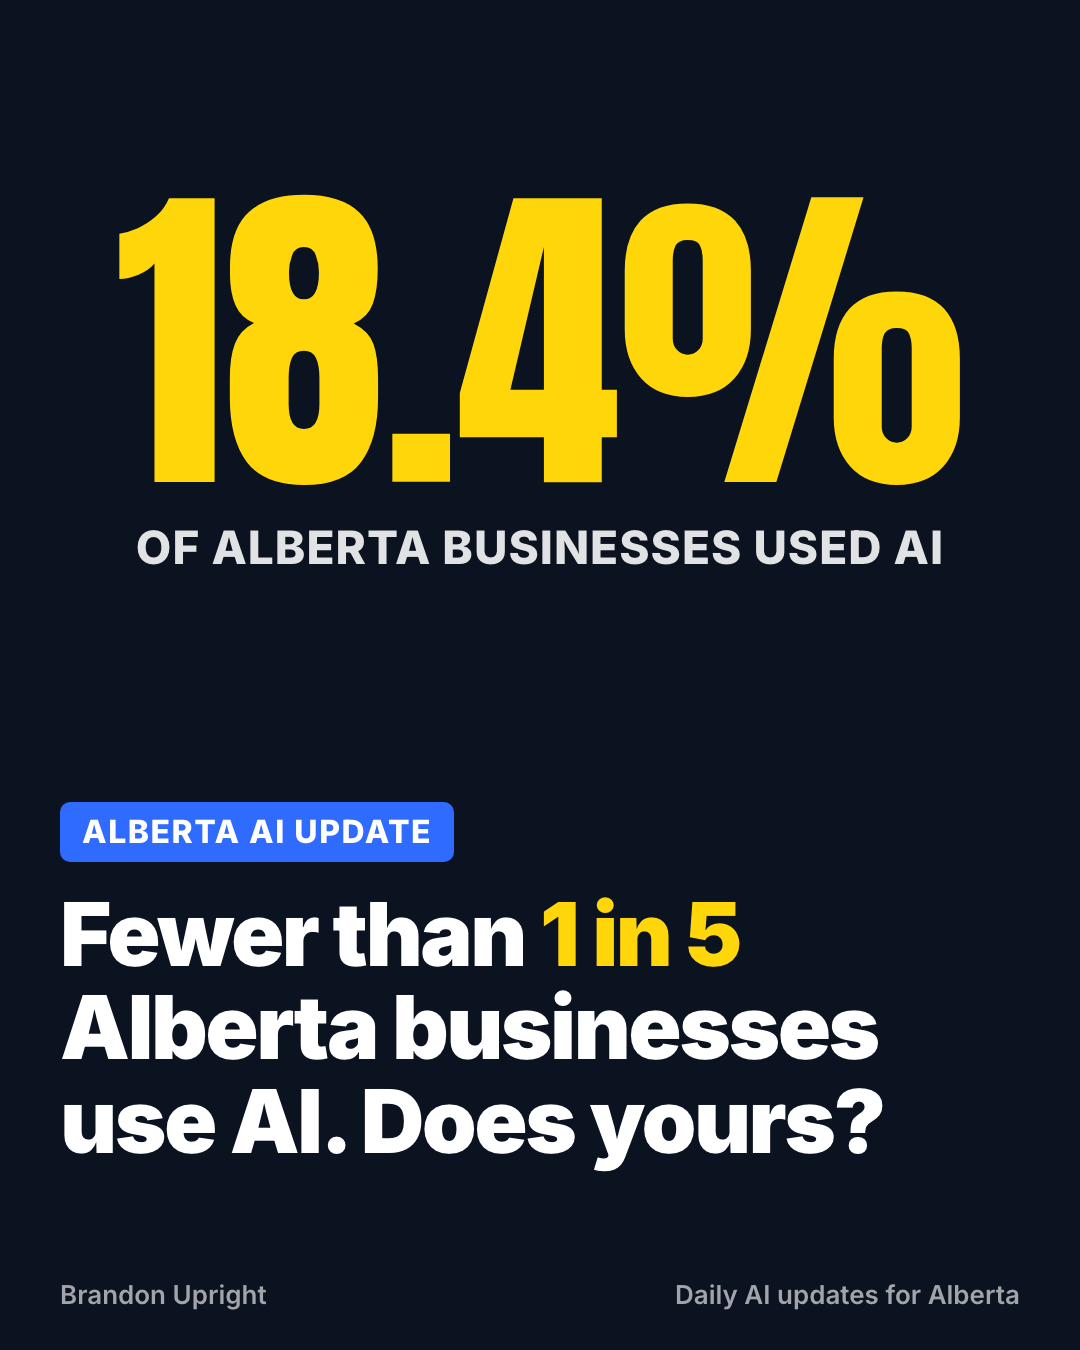
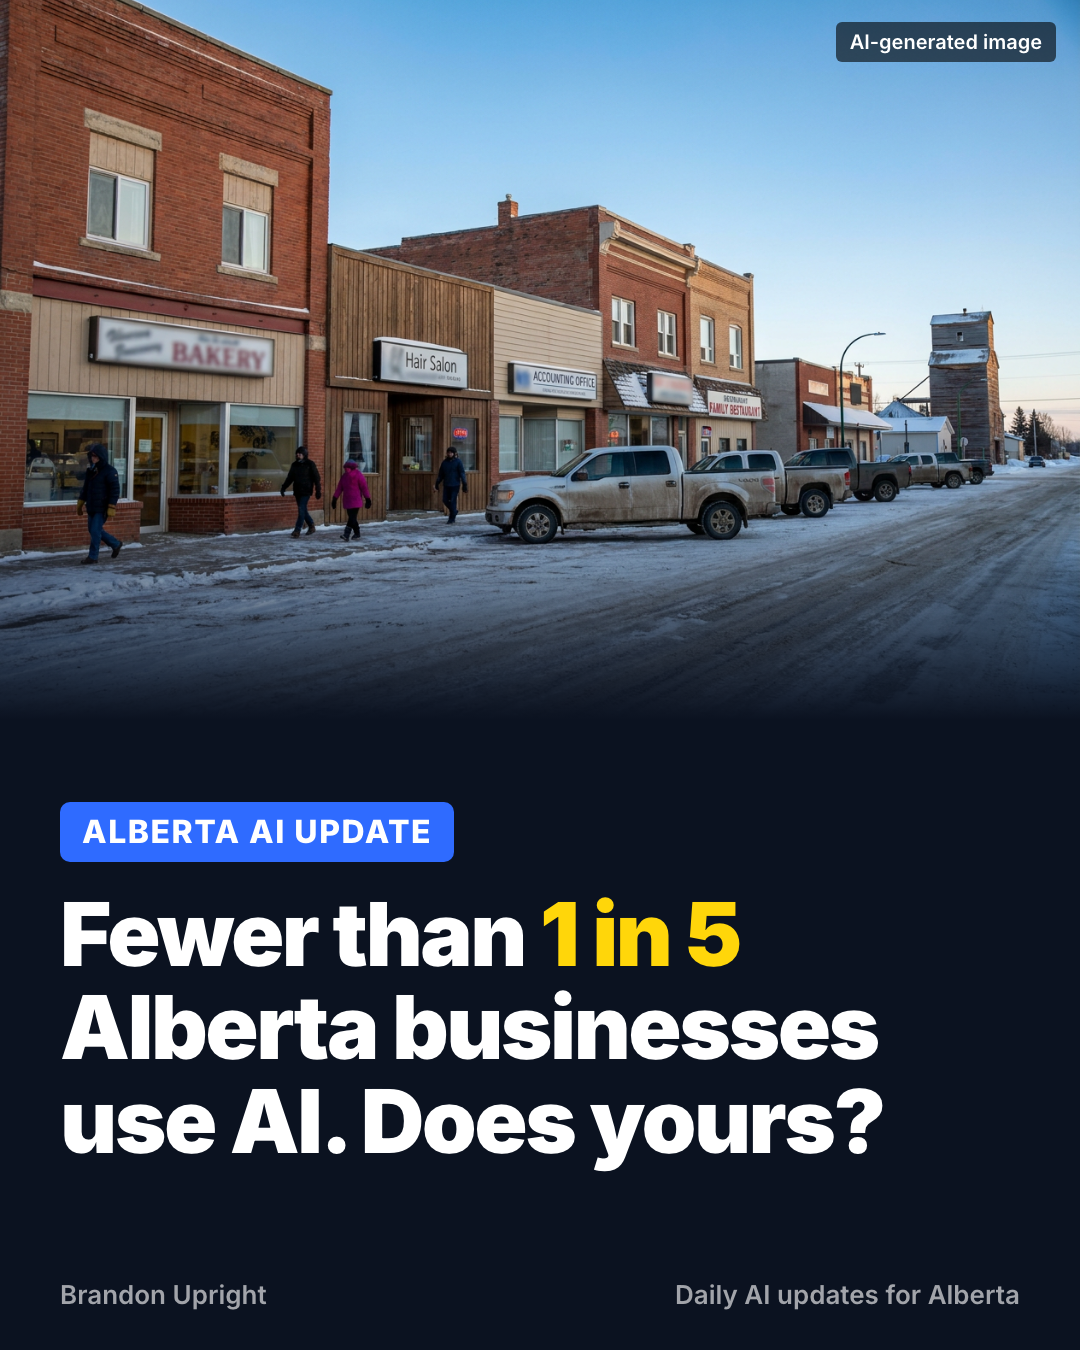
Personal posts: Fal.ai photo generation, generated photos for three posts

diff --git a/content/personal-posts/routine-prompt.md b/content/personal-posts/routine-prompt.md
@@ -1,4 +1,4 @@
-You run Brandon Upright's personal content funnel. His goal: when people in Alberta think "AI", they think of him. He posts 10 times a day on his personal Facebook, LinkedIn and X. Each post is an image with a headline, a caption, and a link in the first comment to an article on unhired.io. Every morning you research, write the 10 posts and their articles, publish the articles to the website, and put the posts on the admin portal's Posts tab (portal.unhired.io/posts), where he copies, pastes and ticks each one off. He does not write or edit. You never post to a social network yourself. Do not use paid APIs or image generators (no Anthropic API calls, no Higgsfield, no Apify) unless the README's image section says a generator is set up.
+You run Brandon Upright's personal content funnel. His goal: when people in Alberta think "AI", they think of him. He posts 10 times a day on his personal Facebook, LinkedIn and X. Each post is an image with a headline, a caption, and a link in the first comment to an article on unhired.io. Every morning you research, write the 10 posts and their articles, publish the articles to the website, and put the posts on the admin portal's Posts tab (portal.unhired.io/posts), where he copies, pastes and ticks each one off. He does not write or edit. You never post to a social network yourself. Do not use paid APIs (no Anthropic API calls, no Higgsfield, no Apify). The one exception is Fal.ai image generation through `scripts/fal-image.mjs`, at most 5 images a day, exactly as the README's image section describes.
 
 The audience is the everyday person in Alberta and business owners, not people who follow tech. The content never sells Brandon, Unhired or the service: it earns attention, starts conversations and gives useful information. The only offer is the author box the website adds to the end of each article by itself.
 
@@ -26,7 +26,7 @@ Every number, name, date and quote must come from a page you opened today: a gov
 Check the writing: put all captions, X texts and article text into one scratch `.md` file that starts with a `---` / `title: x` / `---` frontmatter block, and run `node /Users/user/Documents/Unhired/scripts/check-writing.mjs --places-ok <scratch.md>` until there are no ERROR lines (an ERROR on the "Follow Brandon Upright" line or an `unhired.io` link is fine).
 
 ## 4. Images
-For each news post run `node /Users/user/Documents/Unhired/scripts/og-image.mjs <its source urls>` and choose a photo by the README's rules (`photoUrl` + `credit`). Then `node /Users/user/Documents/Unhired/scripts/post-image.mjs /Users/user/Documents/Unhired/content/personal-posts/<today>.json`. Open every PNG in `/Users/user/Documents/Unhired/brand/personal-posts/<today>/` and look at it: the photo shows the story, no text cut off, the number readable on a phone, the label matches the pillar, no two posts share a photo. Fix the spec and re-render that slug if anything is off.
+For each news post run `node /Users/user/Documents/Unhired/scripts/og-image.mjs <its source urls>` and choose a photo by the README's rules (`photoUrl` + `credit`). For a news post with no usable source photo, generate one with `scripts/fal-image.mjs` (README image section; max 5 a day). Then `node /Users/user/Documents/Unhired/scripts/post-image.mjs /Users/user/Documents/Unhired/content/personal-posts/<today>.json`. Open every PNG in `/Users/user/Documents/Unhired/brand/personal-posts/<today>/` and look at it: the photo shows the story, no text cut off, the number readable on a phone, the label matches the pillar, no two posts share a photo. Fix the spec and re-render that slug if anything is off.
 
 ## 5. Publish the articles
 `node /Users/user/Documents/Unhired/scripts/news-publish.mjs /Users/user/Documents/Unhired/content/personal-posts/<today>.json` prints the files it wrote. `git -C /Users/user/Documents/Unhired add` exactly those files plus `content/personal-posts/<today>.json`, commit "AI Updates: <today>" ending with the line `Co-Authored-By: Claude <noreply@anthropic.com>`, and `git -C /Users/user/Documents/Unhired push origin main`. Then check one article is live: `curl -s -o /dev/null -w "%{http_code}" https://unhired.io/news/<first article slug>` every 30 seconds for up to 8 minutes until it prints 200. If it never goes live, say so clearly in the report and the notification, and still do step 6.

diff --git a/content/personal-posts/README.md b/content/personal-posts/README.md
@@ -113,9 +113,21 @@ number in yellow (`*600 metres*`). Labels: `ALBERTA AI UPDATE`, `AI UPDATE`, `AI
   or `list` (duties or rules).
 - AI Employee posts use the robot photos in `brand/ads/photos` (`"layout": "photo", "photo": "robot-desk-b.png"`),
   a different one for each post that day.
-- Generated photos (Fal.ai): not set up yet. When `FAL_KEY` exists in the portal's `.env.local`, this
-  section gets the command for generating a photo or editing a source photo. Until then, don't
-  generate images.
+- **Generated photos (Fal.ai, about $0.15 each):** when a news post has no usable source photo,
+  generate one instead of falling back to a `stat` or `list` card:
+  `node --env-file=/Users/user/Documents/unhired-portal/.env.local /Users/user/Documents/Unhired/scripts/fal-image.mjs --out /Users/user/Documents/Unhired/brand/personal-posts/<date>/gen/<slug>.png --prompt "<scene>"`
+  then set the spec to `"layout": "photo", "photoFile": "<that absolute path>", "credit": "AI-generated image"`.
+  Write the scene like a news photographer's shot list: a real place in Alberta, real people doing
+  something, season and light, camera position. Show ordinary life the story touches (a clinic, a
+  main street, a kitchen table, a farm), never robots or glowing brains for news posts. Never generate
+  a real, named person, a real company's logo, or anything that could pass as a photo of a specific
+  real event. Always credit it "AI-generated image".
+- **Editing a source photo:** add `--edit <photo url or file>` to change an existing photo, e.g. to put
+  an Edmonton or Calgary landmark in the background when the story is local. Credit it
+  "Photo: <source>, edited". Never edit a real person's face or what they are doing.
+- At most 5 generated or edited images a day. Open each one before using it: no garbled text, no
+  extra fingers, nothing that looks fake at phone size. Regenerate once if it fails, otherwise use a
+  `stat` card.
 - Rotate themes so neighbours differ. Open every PNG and look at it: nothing cut off, the number
   readable on a phone, the label matching the pillar.
 
